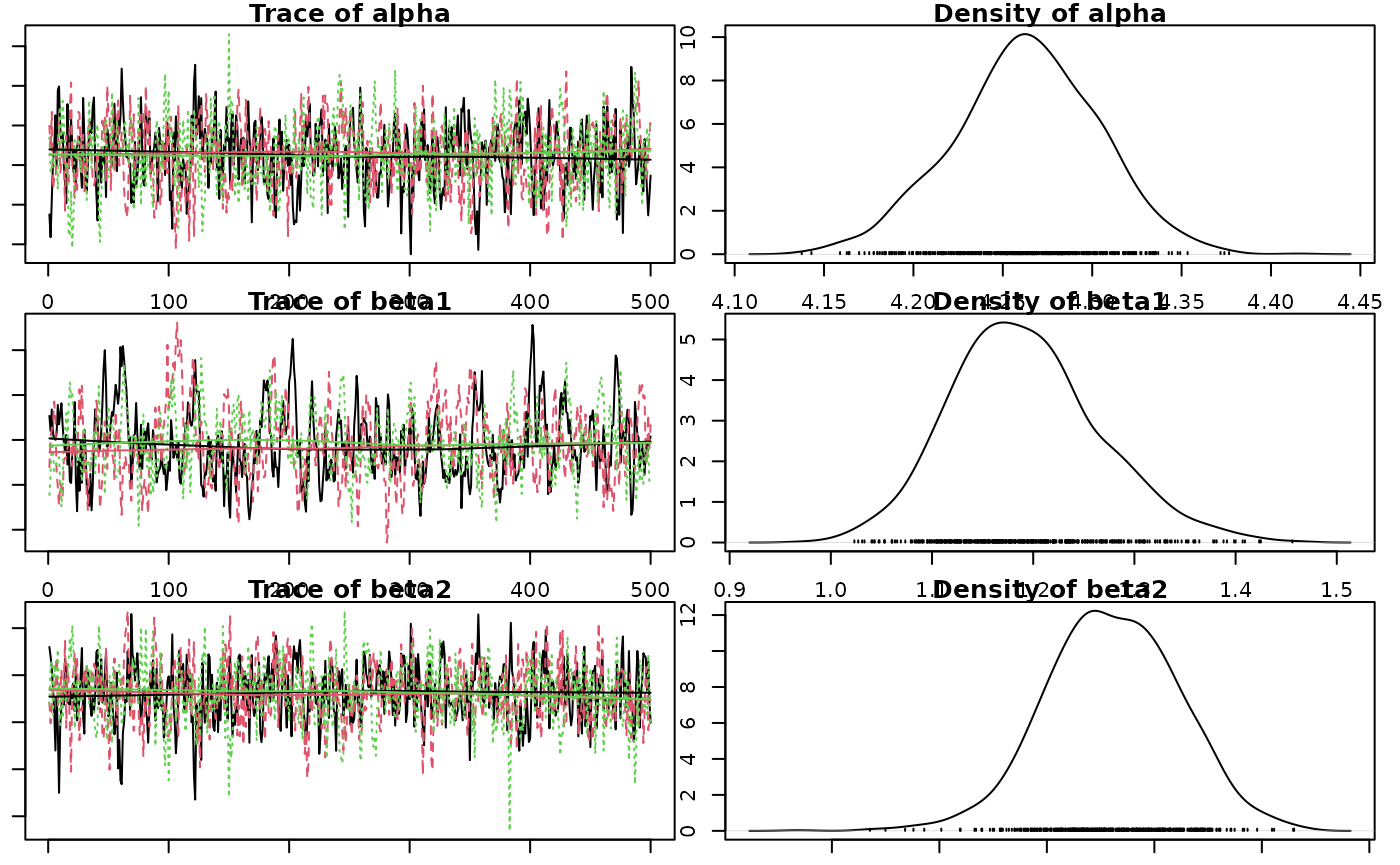
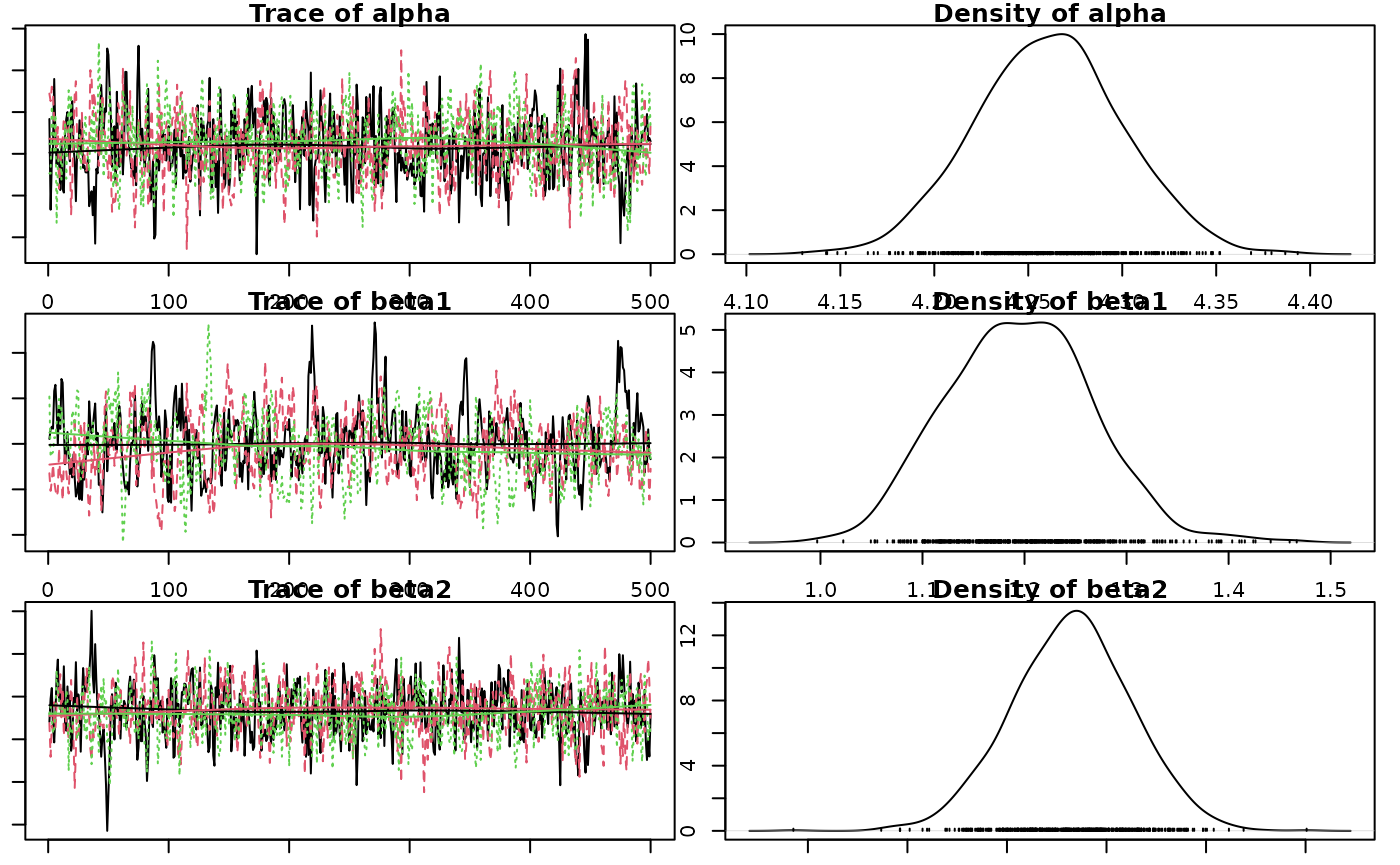
Built site for jmbr@0.0.0.9135: 5c32978

diff --git a/articles/jmbr.html b/articles/jmbr.html
@@ -285,14 +285,14 @@ value and discarding all other values.</p>
 <span><span class="co">#&gt; <span style="color: #949494;"># A tibble: 1 × 8</span></span></span>
 <span><span class="co">#&gt;       n     K nchains niters nthin   ess  rhat converged</span></span>
 <span><span class="co">#&gt;   <span style="color: #949494; font-style: italic;">&lt;int&gt;</span> <span style="color: #949494; font-style: italic;">&lt;int&gt;</span>   <span style="color: #949494; font-style: italic;">&lt;int&gt;</span>  <span style="color: #949494; font-style: italic;">&lt;int&gt;</span> <span style="color: #949494; font-style: italic;">&lt;int&gt;</span> <span style="color: #949494; font-style: italic;">&lt;int&gt;</span> <span style="color: #949494; font-style: italic;">&lt;dbl&gt;</span> <span style="color: #949494; font-style: italic;">&lt;lgl&gt;</span>    </span></span>
-<span><span class="co">#&gt; <span style="color: #BCBCBC;">1</span>    40     6       3    500    10   278  1.01 TRUE</span></span>
+<span><span class="co">#&gt; <span style="color: #BCBCBC;">1</span>    40     6       3    500    10   288  1.01 TRUE</span></span>
 <span><span class="co">#&gt; Warning in value[[3L]](cond): beep() could not play the sound due to the following error:</span></span>
 <span><span class="co">#&gt; Error in play.default(x, rate, ...): no audio drivers are available</span></span>
 <span><span class="va">analysis</span> <span class="op">&lt;-</span> <span class="fu"><a href="https://rdrr.io/pkg/embr/man/reanalyse.html" class="external-link">reanalyse</a></span><span class="op">(</span><span class="va">analysis</span><span class="op">)</span></span>
 <span><span class="co">#&gt; <span style="color: #949494;"># A tibble: 1 × 8</span></span></span>
 <span><span class="co">#&gt;       n     K nchains niters nthin   ess  rhat converged</span></span>
 <span><span class="co">#&gt;   <span style="color: #949494; font-style: italic;">&lt;int&gt;</span> <span style="color: #949494; font-style: italic;">&lt;int&gt;</span>   <span style="color: #949494; font-style: italic;">&lt;int&gt;</span>  <span style="color: #949494; font-style: italic;">&lt;int&gt;</span> <span style="color: #949494; font-style: italic;">&lt;int&gt;</span> <span style="color: #949494; font-style: italic;">&lt;int&gt;</span> <span style="color: #949494; font-style: italic;">&lt;dbl&gt;</span> <span style="color: #949494; font-style: italic;">&lt;lgl&gt;</span>    </span></span>
-<span><span class="co">#&gt; <span style="color: #BCBCBC;">1</span>    40     6       3    500    10   278  1.01 TRUE</span></span>
+<span><span class="co">#&gt; <span style="color: #BCBCBC;">1</span>    40     6       3    500    10   288  1.01 TRUE</span></span>
 <span><span class="co">#&gt; Warning in value[[3L]](cond): beep() could not play the sound due to the following error:</span></span>
 <span><span class="co">#&gt; Error in play.default(x, rate, ...): no audio drivers are available</span></span></code></pre></div>
 <p><strong>Analysis Table:</strong></p>
@@ -342,12 +342,12 @@ between- and within-chain estimates for model parameters.
 <span><span class="co">#&gt; <span style="color: #949494;"># A tibble: 6 × 7</span></span></span>
 <span><span class="co">#&gt;   term        estimate     sd  zscore   lower   upper   pvalue</span></span>
 <span><span class="co">#&gt;   <span style="color: #949494; font-style: italic;">&lt;term&gt;</span>         <span style="color: #949494; font-style: italic;">&lt;dbl&gt;</span>  <span style="color: #949494; font-style: italic;">&lt;dbl&gt;</span>   <span style="color: #949494; font-style: italic;">&lt;dbl&gt;</span>   <span style="color: #949494; font-style: italic;">&lt;dbl&gt;</span>   <span style="color: #949494; font-style: italic;">&lt;dbl&gt;</span>    <span style="color: #949494; font-style: italic;">&lt;dbl&gt;</span></span></span>
-<span><span class="co">#&gt; <span style="color: #BCBCBC;">1</span> alpha         4.26   0.040<span style="text-decoration: underline;">6</span> 105.     4.18    4.34   0.000<span style="text-decoration: underline;">666</span></span></span>
-<span><span class="co">#&gt; <span style="color: #BCBCBC;">2</span> beta1         1.19   0.074<span style="text-decoration: underline;">2</span>  16.1    1.06    1.35   0.000<span style="text-decoration: underline;">666</span></span></span>
-<span><span class="co">#&gt; <span style="color: #BCBCBC;">3</span> beta2        -<span style="color: #BB0000;">0.019</span><span style="color: #BB0000; text-decoration: underline;">8</span> 0.031<span style="text-decoration: underline;">0</span>  -<span style="color: #BB0000;">0.633</span> -<span style="color: #BB0000;">0.083</span><span style="color: #BB0000; text-decoration: underline;">0</span>  0.039<span style="text-decoration: underline;">1</span> 0.540   </span></span>
-<span><span class="co">#&gt; <span style="color: #BCBCBC;">4</span> beta3        -<span style="color: #BB0000;">0.270</span>  0.038<span style="text-decoration: underline;">0</span>  -<span style="color: #BB0000;">7.16</span>  -<span style="color: #BB0000;">0.355</span>  -<span style="color: #BB0000;">0.203</span>  0.000<span style="text-decoration: underline;">666</span></span></span>
-<span><span class="co">#&gt; <span style="color: #BCBCBC;">5</span> log_sAnnual  -<span style="color: #BB0000;">2.24</span>   0.306   -<span style="color: #BB0000;">7.38</span>  -<span style="color: #BB0000;">2.94</span>   -<span style="color: #BB0000;">1.75</span>   0.000<span style="text-decoration: underline;">666</span></span></span>
-<span><span class="co">#&gt; <span style="color: #BCBCBC;">6</span> sAnnual       0.107  0.031<span style="text-decoration: underline;">0</span>   3.51   0.053<span style="text-decoration: underline;">1</span>  0.173  0.000<span style="text-decoration: underline;">666</span></span></span></code></pre></div>
+<span><span class="co">#&gt; <span style="color: #BCBCBC;">1</span> alpha         4.26   0.039<span style="text-decoration: underline;">2</span> 109.     4.19    4.34   0.000<span style="text-decoration: underline;">666</span></span></span>
+<span><span class="co">#&gt; <span style="color: #BCBCBC;">2</span> beta1         1.19   0.071<span style="text-decoration: underline;">7</span>  16.7    1.07    1.33   0.000<span style="text-decoration: underline;">666</span></span></span>
+<span><span class="co">#&gt; <span style="color: #BCBCBC;">3</span> beta2        -<span style="color: #BB0000;">0.017</span><span style="color: #BB0000; text-decoration: underline;">2</span> 0.030<span style="text-decoration: underline;">1</span>  -<span style="color: #BB0000;">0.584</span> -<span style="color: #BB0000;">0.076</span><span style="color: #BB0000; text-decoration: underline;">8</span>  0.039<span style="text-decoration: underline;">9</span> 0.552   </span></span>
+<span><span class="co">#&gt; <span style="color: #BCBCBC;">4</span> beta3        -<span style="color: #BB0000;">0.273</span>  0.035<span style="text-decoration: underline;">7</span>  -<span style="color: #BB0000;">7.66</span>  -<span style="color: #BB0000;">0.345</span>  -<span style="color: #BB0000;">0.206</span>  0.000<span style="text-decoration: underline;">666</span></span></span>
+<span><span class="co">#&gt; <span style="color: #BCBCBC;">5</span> log_sAnnual  -<span style="color: #BB0000;">2.21</span>   0.305   -<span style="color: #BB0000;">7.34</span>  -<span style="color: #BB0000;">2.93</span>   -<span style="color: #BB0000;">1.72</span>   0.000<span style="text-decoration: underline;">666</span></span></span>
+<span><span class="co">#&gt; <span style="color: #BCBCBC;">6</span> sAnnual       0.109  0.031<span style="text-decoration: underline;">2</span>   3.57   0.053<span style="text-decoration: underline;">6</span>  0.180  0.000<span style="text-decoration: underline;">666</span></span></span></code></pre></div>
 <p>The estimate is the <strong>median</strong> by default.</p>
 <p>The zscore is <span class="math inline">mean / sd</span>.</p>
 <div class="sourceCode" id="cb12"><pre class="downlit sourceCode r">
@@ -355,12 +355,12 @@ between- and within-chain estimates for model parameters.
 <span><span class="co">#&gt; <span style="color: #949494;"># A tibble: 6 × 5</span></span></span>
 <span><span class="co">#&gt;   term        estimate   lower   upper svalue</span></span>
 <span><span class="co">#&gt;   <span style="color: #949494; font-style: italic;">&lt;term&gt;</span>         <span style="color: #949494; font-style: italic;">&lt;dbl&gt;</span>   <span style="color: #949494; font-style: italic;">&lt;dbl&gt;</span>   <span style="color: #949494; font-style: italic;">&lt;dbl&gt;</span>  <span style="color: #949494; font-style: italic;">&lt;dbl&gt;</span></span></span>
-<span><span class="co">#&gt; <span style="color: #BCBCBC;">1</span> alpha         4.26    4.18    4.34   10.6  </span></span>
-<span><span class="co">#&gt; <span style="color: #BCBCBC;">2</span> beta1         1.19    1.06    1.35   10.6  </span></span>
-<span><span class="co">#&gt; <span style="color: #BCBCBC;">3</span> beta2        -<span style="color: #BB0000;">0.019</span><span style="color: #BB0000; text-decoration: underline;">8</span> -<span style="color: #BB0000;">0.083</span><span style="color: #BB0000; text-decoration: underline;">0</span>  0.039<span style="text-decoration: underline;">1</span>  0.888</span></span>
-<span><span class="co">#&gt; <span style="color: #BCBCBC;">4</span> beta3        -<span style="color: #BB0000;">0.270</span>  -<span style="color: #BB0000;">0.355</span>  -<span style="color: #BB0000;">0.203</span>  10.6  </span></span>
-<span><span class="co">#&gt; <span style="color: #BCBCBC;">5</span> log_sAnnual  -<span style="color: #BB0000;">2.24</span>   -<span style="color: #BB0000;">2.94</span>   -<span style="color: #BB0000;">1.75</span>   10.6  </span></span>
-<span><span class="co">#&gt; <span style="color: #BCBCBC;">6</span> sAnnual       0.107   0.053<span style="text-decoration: underline;">1</span>  0.173  10.6</span></span></code></pre></div>
+<span><span class="co">#&gt; <span style="color: #BCBCBC;">1</span> alpha         4.26    4.19    4.34   10.6  </span></span>
+<span><span class="co">#&gt; <span style="color: #BCBCBC;">2</span> beta1         1.19    1.07    1.33   10.6  </span></span>
+<span><span class="co">#&gt; <span style="color: #BCBCBC;">3</span> beta2        -<span style="color: #BB0000;">0.017</span><span style="color: #BB0000; text-decoration: underline;">2</span> -<span style="color: #BB0000;">0.076</span><span style="color: #BB0000; text-decoration: underline;">8</span>  0.039<span style="text-decoration: underline;">9</span>  0.856</span></span>
+<span><span class="co">#&gt; <span style="color: #BCBCBC;">4</span> beta3        -<span style="color: #BB0000;">0.273</span>  -<span style="color: #BB0000;">0.345</span>  -<span style="color: #BB0000;">0.206</span>  10.6  </span></span>
+<span><span class="co">#&gt; <span style="color: #BCBCBC;">5</span> log_sAnnual  -<span style="color: #BB0000;">2.21</span>   -<span style="color: #BB0000;">2.93</span>   -<span style="color: #BB0000;">1.72</span>   10.6  </span></span>
+<span><span class="co">#&gt; <span style="color: #BCBCBC;">6</span> sAnnual       0.109   0.053<span style="text-decoration: underline;">6</span>  0.180  10.6</span></span></code></pre></div>
 <p>The s-value is the <strong>suprisal</strong> value, which is a
 measure of directionality with respect to zero.</p>
 <p>The s-value is zero (unsurprising) when <em>p-value</em> = 1.0 and
